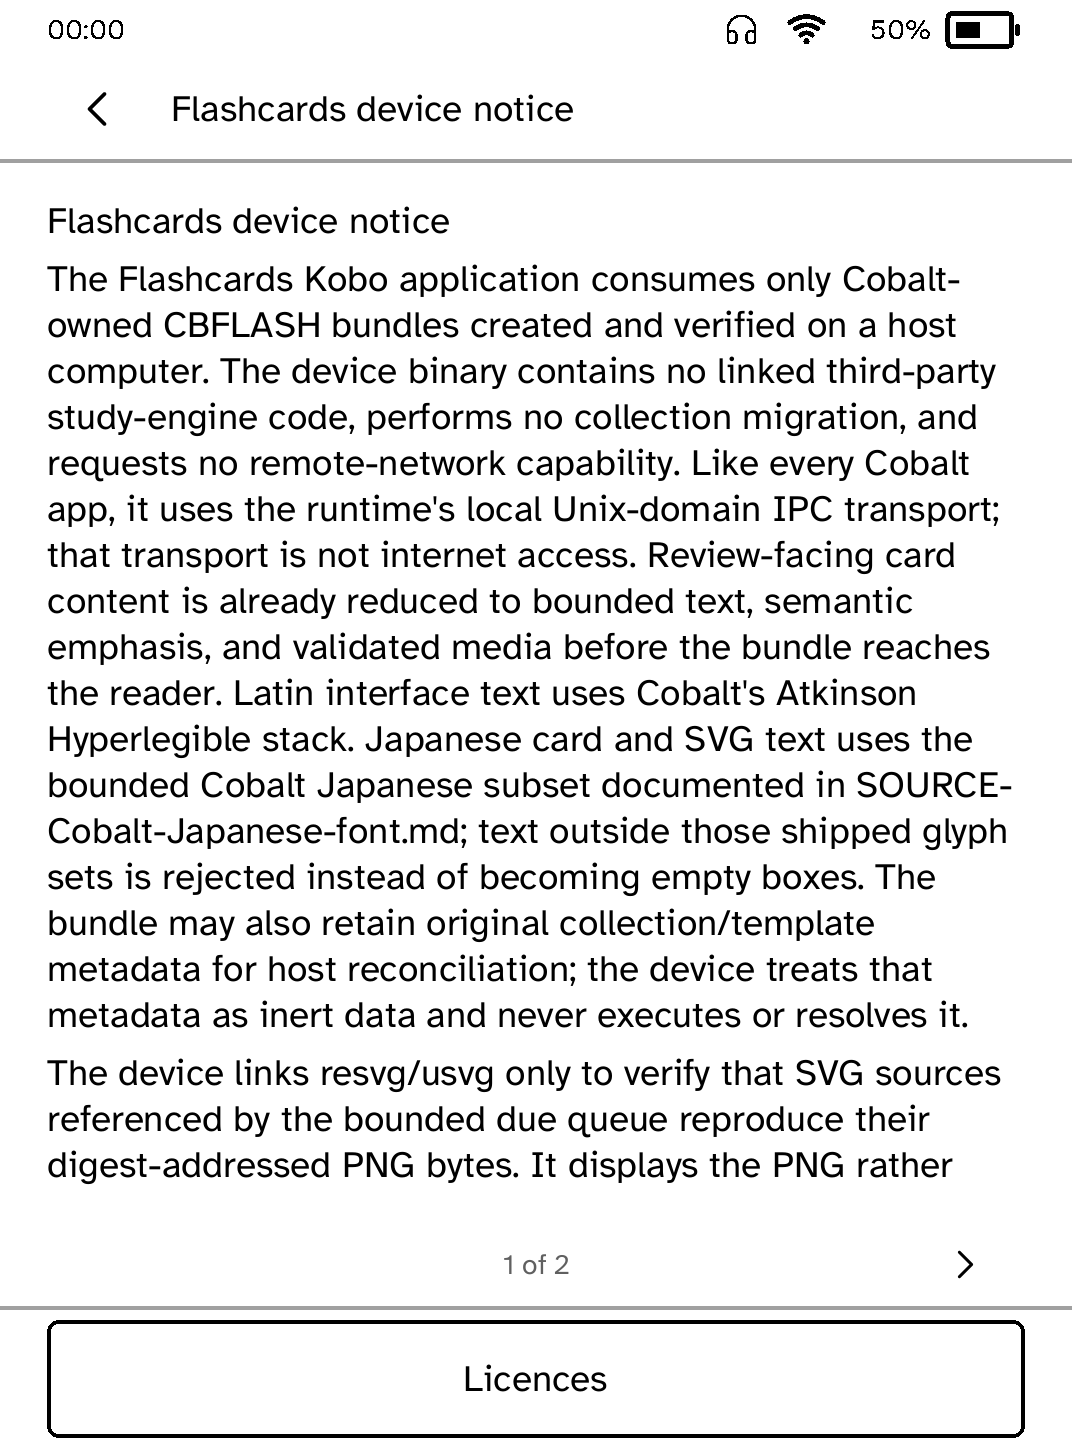
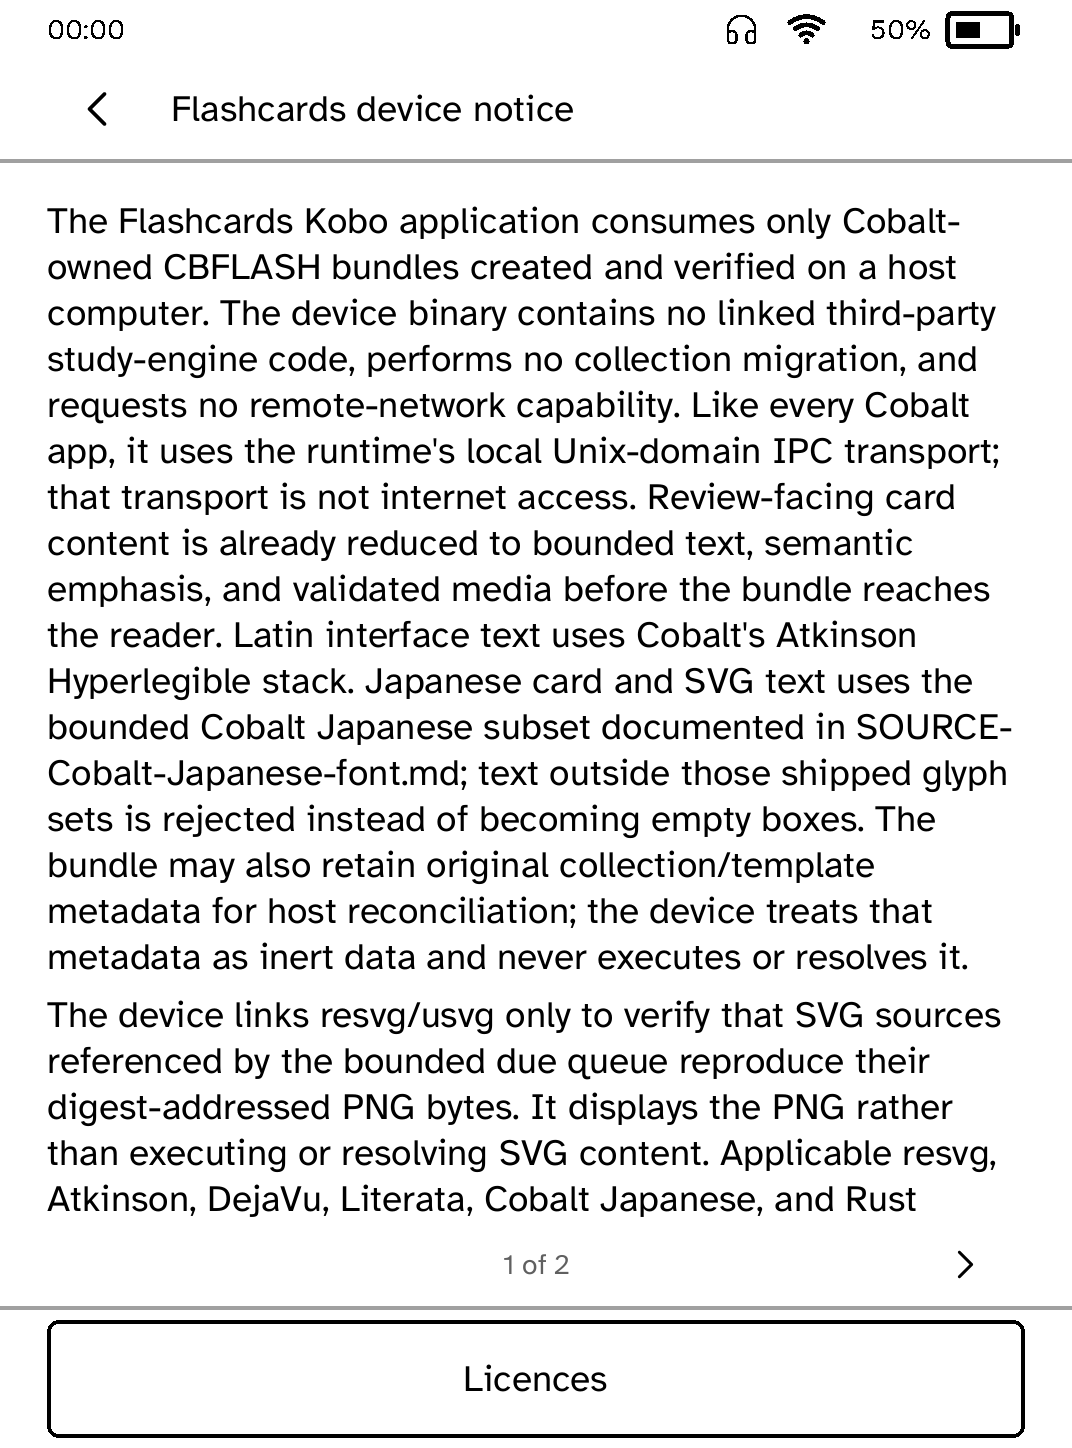
Flashcards 0.2.18: drive every feature and fix what the drive found
Your Card details choice in Review settings is now kept when Flashcards restarts, and the licence pages no longer repeat their title.

Changed region(s): [[0.0308, 0.1243, 0.9543, 0.8391]]

diff --git a/apps/flashcards/src/main.rs b/apps/flashcards/src/main.rs
@@ -25,6 +25,9 @@ use study::Study;
 
 const BUNDLE_NAME: &str = "collection.cobfc";
 const REVIEW_LOG_NAME: &str = "cobalt-review-log.ndjson";
+/// The owner's review settings. Kept in the app's store, not on the shelf
+/// beside the collection, so a new push from the computer never resets them.
+const SETTINGS: &str = "review-settings-v1";
 const JAPANESE_FONT_HANDLE: FontHandle = FontHandle(1);
 const PICTURE_HANDLE: PictureHandle = PictureHandle(1);
 const NOTICE: &str = "Flashcards reviews host-prepared Cobalt bundles offline. The device contains no linked study-engine code, requests no remote-network capability, and uses only Cobalt's required local runtime IPC. Applicable device licences are in Licences & about.";
@@ -1108,8 +1111,60 @@ impl Flashcards {
     }
 }
 
+impl Flashcards {
+    fn set_details(&mut self, context: &mut Context, show: bool) {
+        if self.show_details != show {
+            self.show_details = show;
+            context.store().save(SETTINGS, encode_settings(show));
+        }
+        context.set_screen(self.screen(context));
+    }
+}
+
+fn encode_settings(show_details: bool) -> Vec<u8> {
+    format!(
+        "details={}\n",
+        if show_details { "detailed" } else { "compact" }
+    )
+    .into_bytes()
+}
+
+/// Whether the saved settings ask for card details. Anything unreadable is
+/// the default, compact.
+fn decode_settings(bytes: &[u8]) -> bool {
+    String::from_utf8_lossy(bytes)
+        .lines()
+        .any(|line| line.trim() == "details=detailed")
+}
+
 impl KoboApp for Flashcards {
+    fn on_load(&mut self, context: &mut Context, key: &str, result: StoreResult) {
+        if key != SETTINGS {
+            self.on_store(context, result);
+            return;
+        }
+        if let StoreResult::Loaded {
+            value: Some(value), ..
+        } = result
+        {
+            let show = decode_settings(&value);
+            if show != self.show_details {
+                self.show_details = show;
+                context.set_screen(self.screen(context));
+            }
+        }
+    }
+
+    // A refused settings save costs the choice at the next start, and is not
+    // a review that failed to save.
+    fn on_save(&mut self, context: &mut Context, key: &str, result: StoreResult) {
+        if key != SETTINGS {
+            self.on_store(context, result);
+        }
+    }
+
     fn on_start(&mut self, context: &mut Context) {
+        context.store().load(SETTINGS);
         context.log(LogLevel::Info, NOTICE);
         self.notice_documents = build_notice_documents(context);
         self.start_download(context);
@@ -1189,11 +1244,9 @@ impl KoboApp for Flashcards {
             self.view = View::NoticeDocument;
             context.set_screen(self.screen(context));
         } else if action == action_id("details-compact") {
-            self.show_details = false;
-            context.set_screen(self.screen(context));
+            self.set_details(context, false);
         } else if action == action_id("details-detailed") {
-            self.show_details = true;
-            context.set_screen(self.screen(context));
+            self.set_details(context, true);
         } else if action == action_id("answer") {
             self.reveal(context);
         } else if let Some(grade) = Grade::ALL
@@ -1871,7 +1924,7 @@ fn styled_page(text: &str, spans: &[CardTextSpan], start: usize, end: usize) -> 
 fn build_notice_documents(context: &Context) -> Vec<NoticeDocument> {
     let mut documents = Vec::new();
     for (title, text) in DEVICE_DISTRIBUTION_DOCUMENTS {
-        let readable = readable_notice(text);
+        let readable = without_heading(&readable_notice(text), title);
         let mut pages = context.paginate(&readable, true);
         if pages.is_empty() {
             pages.push(vec![readable]);
@@ -1885,6 +1938,17 @@ fn build_notice_documents(context: &Context) -> Vec<NoticeDocument> {
         });
     }
     documents
+}
+
+/// The document without a first line that only repeats its title, which
+/// the bar above it already shows.
+fn without_heading(text: &str, title: &str) -> String {
+    match text.split_once('\n') {
+        Some((first, rest)) if first.trim().eq_ignore_ascii_case(title) => {
+            rest.trim_start_matches('\n').to_owned()
+        }
+        _ => text.to_owned(),
+    }
 }
 
 fn readable_notice(text: &str) -> String {
@@ -3209,6 +3273,53 @@ mod tests {
                 }
             }
         }
+    }
+
+    #[test]
+    fn the_card_details_choice_is_saved_and_read_back_at_the_next_start() {
+        use kobo_sdk::{Command, StoreRequest};
+
+        let mut app = Flashcards::default();
+        let mut context = Context::default();
+        app.on_action(&mut context, action_id("details-detailed"));
+        let saved = context
+            .commands()
+            .iter()
+            .find_map(|command| match command {
+                Command::Store(StoreRequest::Save { key, value }) if key == SETTINGS => {
+                    Some(value.clone())
+                }
+                _ => None,
+            })
+            .expect("the choice was not saved");
+
+        let mut restarted = Flashcards::default();
+        let mut context = Context::default();
+        restarted.on_load(
+            &mut context,
+            SETTINGS,
+            StoreResult::Loaded {
+                key: SETTINGS.to_owned(),
+                value: Some(saved),
+            },
+        );
+        assert!(restarted.show_details);
+        assert!(!decode_settings(b"not settings"));
+    }
+
+    #[test]
+    fn a_licence_document_does_not_repeat_its_title_under_the_bar() {
+        let documents = build_notice_documents(&Context::default());
+        let notice = documents
+            .iter()
+            .find(|document| document.title == "Flashcards device notice")
+            .expect("the device notice is listed");
+        let first = notice.pages[0][0].lines().next().unwrap_or_default();
+        assert_ne!(first.trim(), "Flashcards device notice");
+        assert_eq!(
+            without_heading("Kept title\n\nBody", "Other"),
+            "Kept title\n\nBody"
+        );
     }
 
     #[test]
